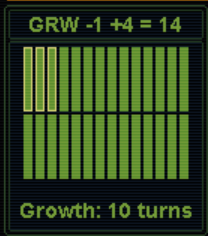
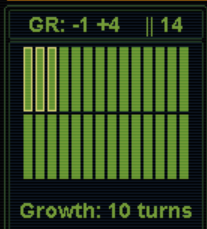
Nutrient box picture.

Changed region(s): [[0.0, 0.0306, 1.0, 1.0], [0.2029, 0.5808, 0.2319, 0.6419]]

diff --git a/src/wtp_mod.cpp b/src/wtp_mod.cpp
@@ -1398,7 +1398,7 @@ __cdecl void displayBaseNutrientCostFactor(int destinationStringPointer, int sou
 	
     char *destinationString = (char *)destinationStringPointer;
 //	sprintf(destinationString + strlen("NUT"), " (%+1d) %+1d => %02d", faction->SE_growth_pending, *BaseGrowthRate, nutrientCostFactor);
-	sprintf(destinationString, "GRW %+1d %+1d = %02d", faction->SE_growth_pending, *BaseGrowthRate - faction->SE_growth_pending, nutrientCostFactor);
+	sprintf(destinationString, "GR: %+1d %+1d    || %02d", faction->SE_growth_pending, *BaseGrowthRate - faction->SE_growth_pending, nutrientCostFactor);
 	
 }
 
